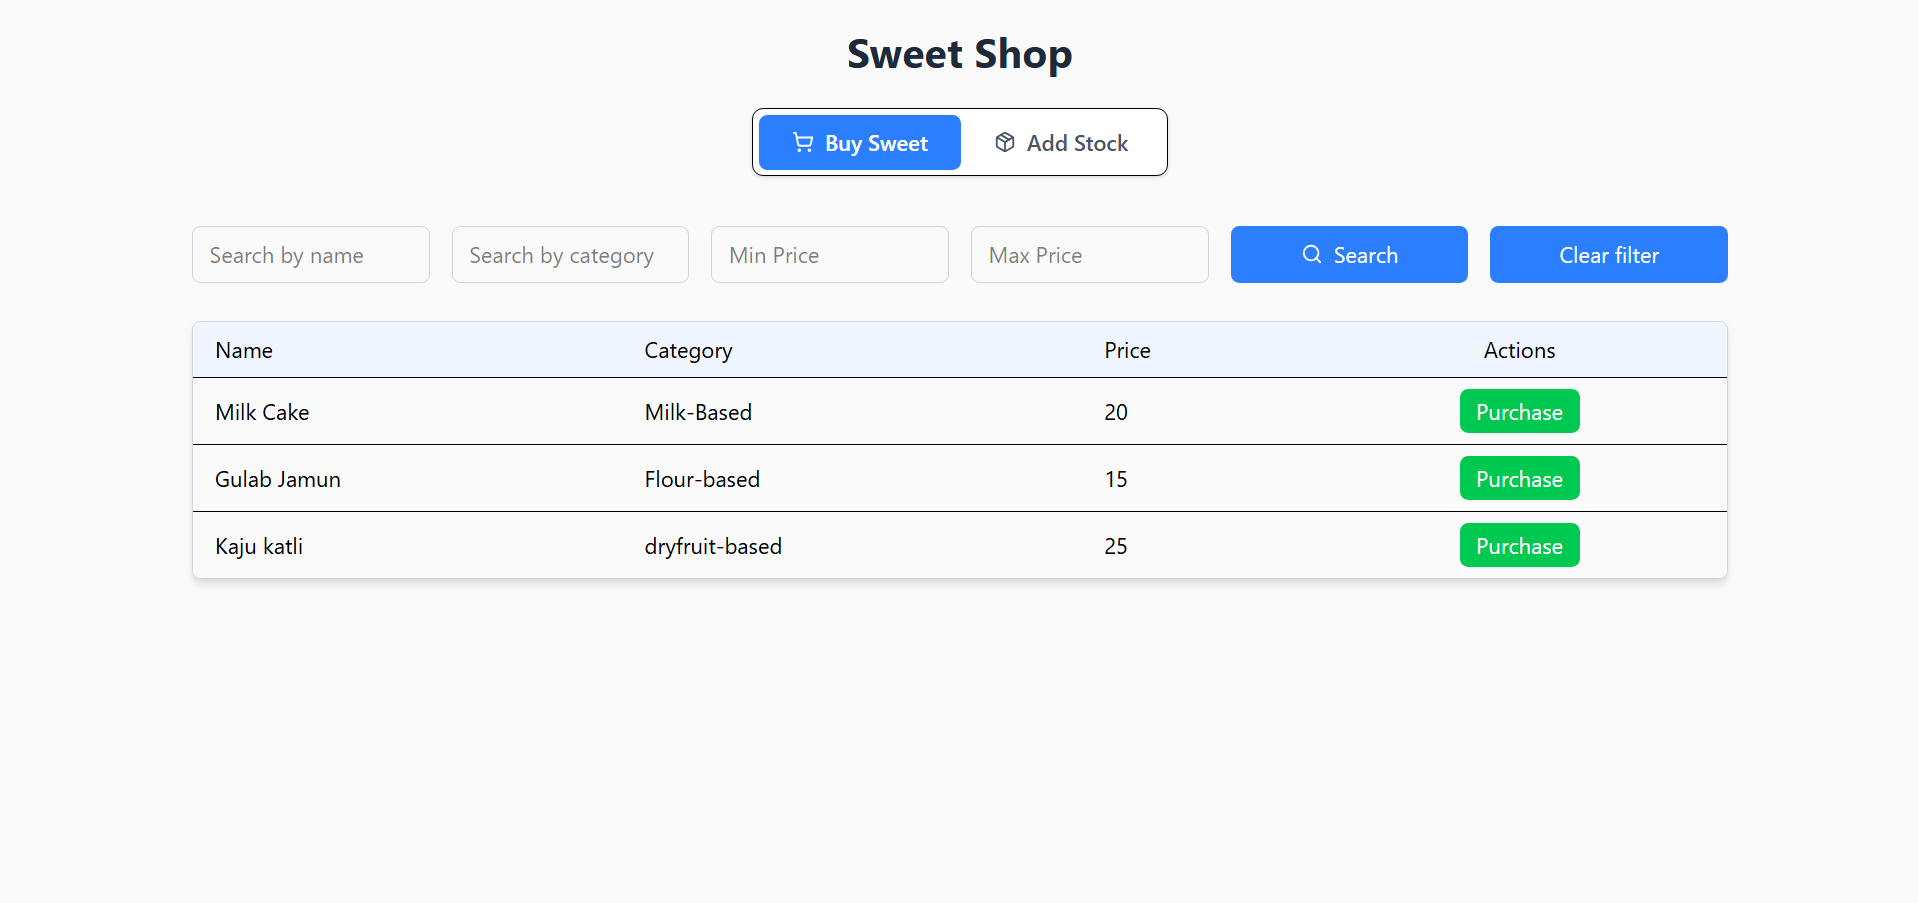
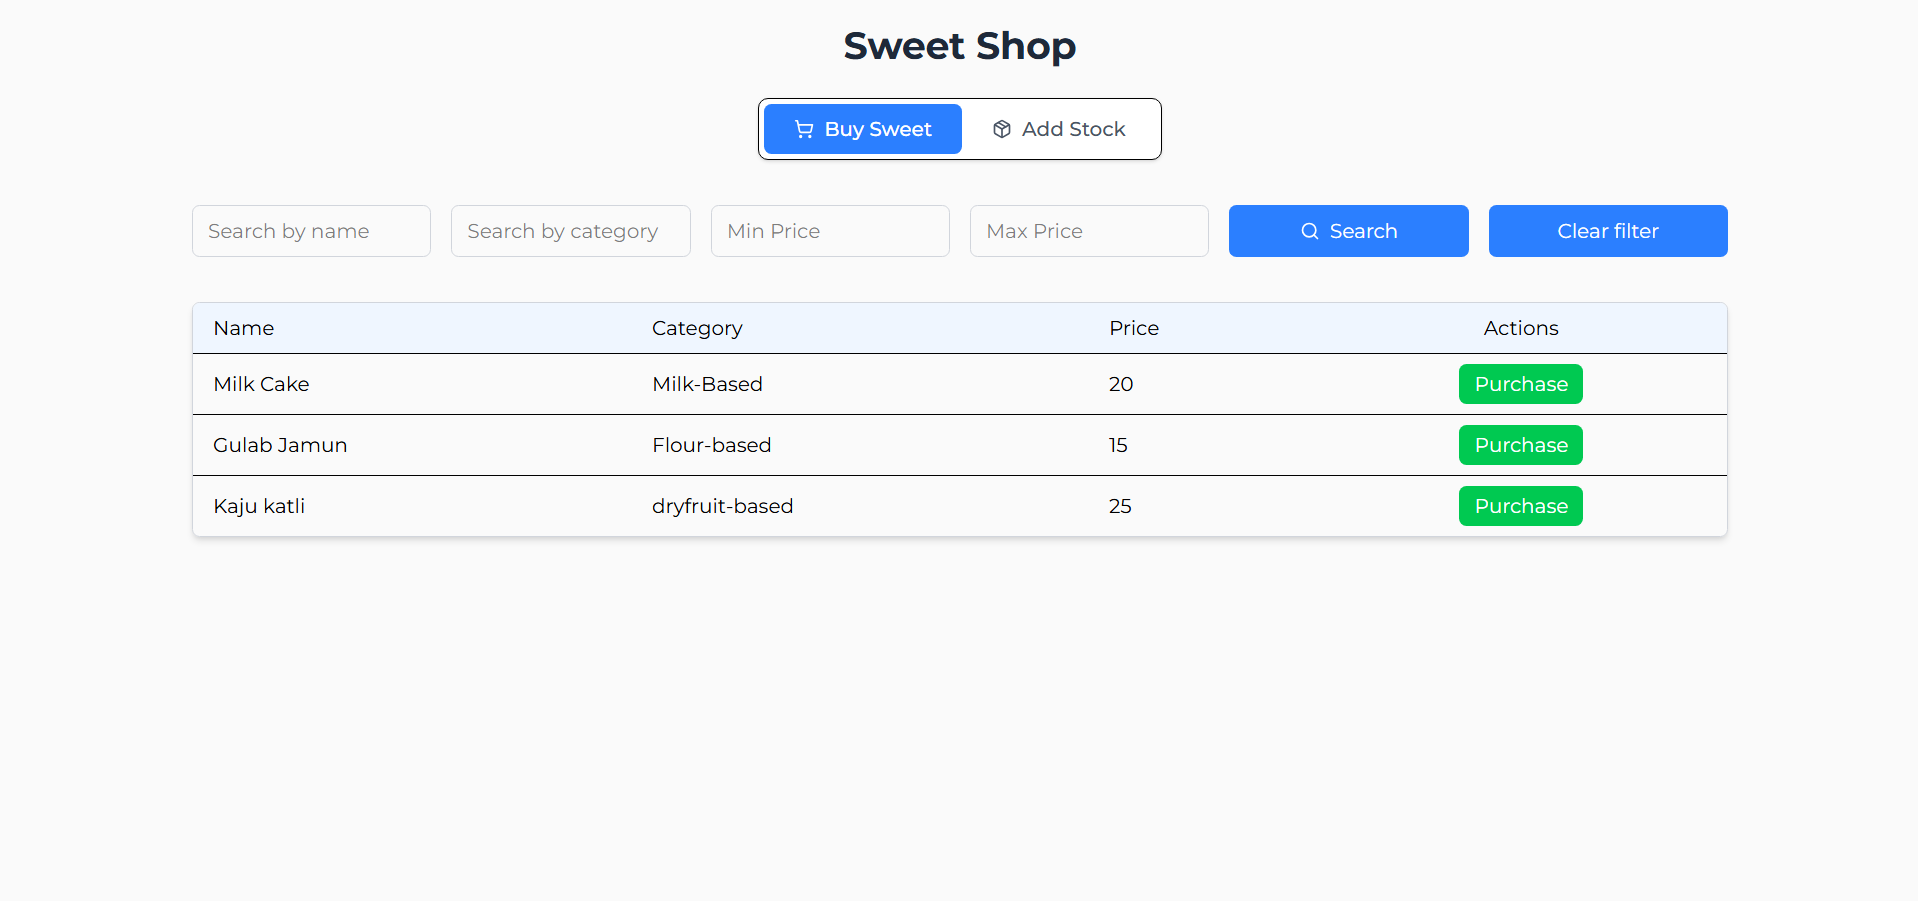
add google font, update readme.md and add new images in assets

diff --git a/sweet-shop-frontend/src/components/SweetView.jsx b/sweet-shop-frontend/src/components/SweetView.jsx
@@ -81,7 +81,7 @@ function SweetView() {
                 <div
                     onClick={(e) => e.stopPropagation()}
                     className="flex flex-col gap-2 bg-white p-6 rounded-md shadow-md w-80">
-                    <h2 className="text-lg font-semibold mb-4">Are you sure ?</h2>
+                    <h2 className="text-lg font-semibold mb-4">Sweet purchase</h2>
                     <input
                         type="text"
                         placeholder="Enter quantity..."
@@ -90,18 +90,18 @@ function SweetView() {
                         onChange={(e) => setQuantity(e.target.value)}
                     />
                     <button onClick={handlePurchase}
-                        className='w-full cursor-pointer border border-gray-300 px-3 py-2 rounded-md bg-green-400 hover:bg-green-500 text-white'
+                        className='w-full cursor-pointer border border-gray-300 px-3 py-2 rounded-md bg-green-500 hover:bg-green-600 text-white'
                     >Purchase
                     </button>
                     <button onClick={() => setModal(false)}
-                        className='w-full cursor-pointer border border-gray-300 px-3 py-2 rounded-md bg-red-400 hover:bg-red-500 text-white'
+                        className='w-full cursor-pointer border border-gray-300 px-3 py-2 rounded-md bg-red-500 hover:bg-red-600 text-white'
                     >Cancel
                     </button>
                 </div>
             </div>}
 
             {/* For filter and search */}
-            <div className="w-full grid grid-cols-1 sm:grid-cols-2 md:grid-cols-3 lg:grid-cols-6 gap-4 mb-2">
+            <div className="w-full grid grid-cols-1 sm:grid-cols-2 md:grid-cols-3 lg:grid-cols-6 gap-4 mb-4">
                 {/* Name Search */}
                 <input
                     type="text"

diff --git a/sweet-shop-frontend/src/components/AdminSweetView.jsx b/sweet-shop-frontend/src/components/AdminSweetView.jsx
@@ -145,7 +145,7 @@ function AdminSweetView() {
           <div
             onClick={(e) => e.stopPropagation()}
             className="flex flex-col gap-2 bg-white p-6 rounded-md shadow-md w-80">
-            <h2 className="text-lg font-semibold mb-4">Are you sure?</h2>
+            <h2 className="text-lg font-semibold mb-4">Are you sure you want to remove?</h2>
             <button onClick={handleDeleteSweet} className='w-full cursor-pointer border border-gray-300 px-3 py-2 rounded-md bg-green-500 hover:bg-green-600 text-white' >Yes</button>
             <button onClick={() => setModal(false)} className='w-full cursor-pointer border border-gray-300 px-3 py-2 rounded-md bg-red-500 hover:bg-red-600 text-white' >Cancel</button>
           </div>
@@ -153,7 +153,7 @@ function AdminSweetView() {
       </div>}
 
       {/* For add the sweets */}
-      <div className='w-full flex items-center'>
+      <div className='w-full flex items-center mb-2'>
         <form onSubmit={handleAddSweet} className="w-full grid grid-cols-1 sm:grid-cols-2 md:grid-cols-3 lg:grid-cols-5 gap-4 mb-2">
           <input type="text" placeholder="Sweet name"
             required

diff --git a/sweet-shop-frontend/src/index.css b/sweet-shop-frontend/src/index.css
@@ -1,1 +1,11 @@
+@import url('https://fonts.googleapis.com/css2?family=Lato:ital,wght@0,100;0,300;0,400;0,700;0,900;1,100;1,300;1,400;1,700;1,900&family=Montserrat:ital,wght@0,100..900;1,100..900&family=Roboto:ital,wght@0,100..900;1,100..900&display=swap');
+
 @import "tailwindcss";
+
+@custom-variant dark (&:where(.dark, .dark *));
+
+@theme {
+  --font-roboto: "Roboto", sans-serif; 
+  --font-montserrat: "Montserrat", sans-serif; 
+  --font-lato: "Lato", sans-serif; 
+}

diff --git a/sweet-shop-frontend/src/components/Home.jsx b/sweet-shop-frontend/src/components/Home.jsx
@@ -7,7 +7,7 @@ export default function Home() {
     const [activeTab, setActiveTab] = useState("buy-sweet");
 
     return (
-        <div className='h-screen w-screen flex flex-col items-center bg-neutral-50'>
+        <div className='h-screen w-screen flex flex-col items-center bg-neutral-50 font-montserrat'>
             <div className="text-center mb-4 pt-5">
                 <h1 className="text-3xl font-bold text-gray-800 mb-2">Sweet Shop</h1>
             </div>

diff --git a/README.md b/README.md
@@ -54,18 +54,26 @@ Content of `.env` is shown in `.env.example`
 
 ### 4. Run Backend and Frontend
 
-In two separate terminals:
+Open two separate terminals from project root: (./sweet-shop)
 
 Terminal 1 (Backend)
-```
-cd ../sweet-shop-backend
+```bash
+cd ./sweet-shop-backend
 npm run dev
 ```
 
 Terminal 2 (Frontend)
-```
+```bash
+cd ./sweet-shop-frontend
 npm run dev
 ```
+
+### 5. Open browser and search
+
+```
+http://localhost:5173/
+```
+
 ⚠ Make sure update MongoDB URI for MongoDB Atlas.
 
 
@@ -85,6 +93,10 @@ Run & See [`test-report.html`](./sweet-shop-backend/test-report.html) for full t
 
 ---
 
+## 🧪 Test Report Screenshot
+
+![Test Report](assets/test-report.png)
+
 ## 🌐 Frontend Preview
 
 ![Frontend Screenshot 1](assets/frontend-1.png)
@@ -97,11 +109,8 @@ Run & See [`test-report.html`](./sweet-shop-backend/test-report.html) for full t
 
 ![Frontend Screenshot 5](assets/frontend-5.png)
 
-![Frontend Mobile View Screenshot 1](assets/mobile-view-1.png)
+## Frontend Mobile Preview
 
-![Frontend Mobile View Screenshot 2](assets/mobile-view-2.png)
+![Frontend Mobile View Screenshot 1](assets/mobile-preview-1.png)
 
-## 🧪 Test Report Screenshot
-
-![Test Report](assets/test-report.png)
-
+![Frontend Mobile View Screenshot 2](assets/mobile-preview-2.png)
